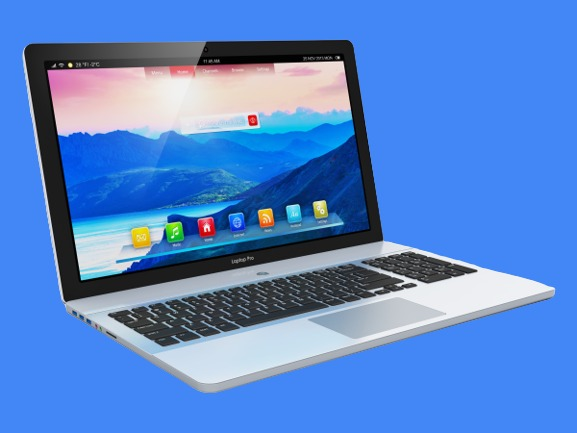
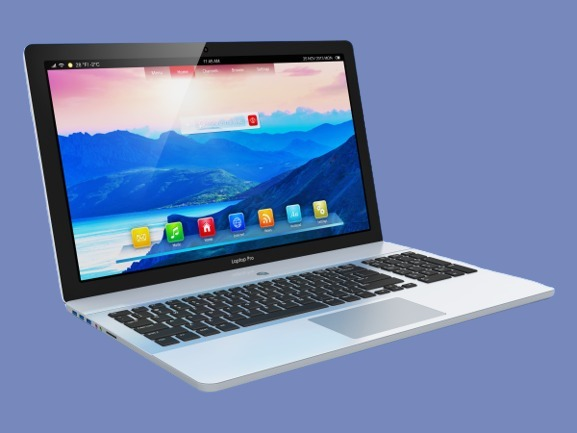
Update
Update

diff --git a/Home.html b/Home.html
@@ -24,10 +24,39 @@
     </nav>
         <div class="slogan">
             <div id="header" >
-                <h6>Shopping गरौ घरमै बसि बस...</h6>
+                <h5>Shopping गरौ घरमै बसि बस...</h5>
             </div>
             <div id="Picture">
                 <img src="Laptop.jpg">
+            </div>
+        </div>
+
+        <div class="main">
+            <h6>Best Sellers</h6>
+            <div class="Best">
+                <div class="jacket">
+                    <div class="Winter">Clothings</div>
+                    <img src="Jacket.jpg" alt="jacket">
+                    <div class="win"><a href="#">Shop Now</a></div>
+                </div>
+
+                <div class="jacket">
+                    <div class="Winter">Electronics</div>
+                    <img src="Electronics.jpg" alt="jacket">
+                    <div class="win"><a href="#">Shop Now</a></div>
+                </div>
+
+                <div class="jacket">
+                    <div class="Winter">Home Decor</div>
+                    <img src="HomeDecor.jpg" alt="jacket">
+                    <div class="win"><a href="#">Shop Now</a></div>
+                </div>
+
+                <div class="jacket">
+                    <div class="Winter">Toys</div>
+                    <img src="Toys.jpg" alt="jacket">
+                    <div class="win"><a href="#">Shop Now</a></div>
+                </div>
             </div>
         </div>
     

diff --git a/Home.css b/Home.css
@@ -5,7 +5,7 @@
     font-family: 'Times New Roman', Times, serif;
 }
 body{
-    background-color: #4287f5;
+    background-color: #7789BC;
 }
 
 nav{
@@ -75,21 +75,71 @@ nav{
 
 .slogan{
     width: 100%;
-    height:600px;
+    height:500px;
     display:flex;
     justify-content: space-between;
     padding: 100px;
-    border: 1px solid black;
 }
 
 #header{
     font-family: 'Times New Roman', Times, serif;
-    font-size:140px;
+    font-size:120px;
     color:#fff;
     width:50%;
 }
+img{
+    width: 100%;
+    height: 100%;
+}
+#Picture{
+    width: 35%;
+    height: 300px;
+}
 
-#picture{
-    width:50%;
-    border: 1px solid black;
+h6{
+    font-family: 'Times New Roman', Times, serif;
+    font-size: 40px;
+    color:#b00b0b;
+    padding:20px;
+}
+
+.main{
+    border:1px solid black;
+    height: 2000px;
+}
+
+.Best{
+    display:flex;
+    justify-content: space-between;
+    padding-left: 20px;
+    padding-right: 10px;
+}
+
+.jacket{
+    height: 390px;
+    width: 300px;
+    border: 2px groove grey;
+    box-shadow: 0 10px 25px rgba(0, 0, 0, 0.3);
+    position: relative;
+}
+
+.jacket .Winter{
+    position: absolute;
+    top: 0%;
+    left: 0%;
+}
+
+.jacket .win{
+    position: absolute;
+    bottom: 0%;
+    right: 0%;
+    border: 1px groove goldenrod;
+    border-radius: 20px;
+    background-color: orange;
+    height:20px;
+}
+
+.jacket .win a{
+    text-decoration: none;
+    color:white;
 }
